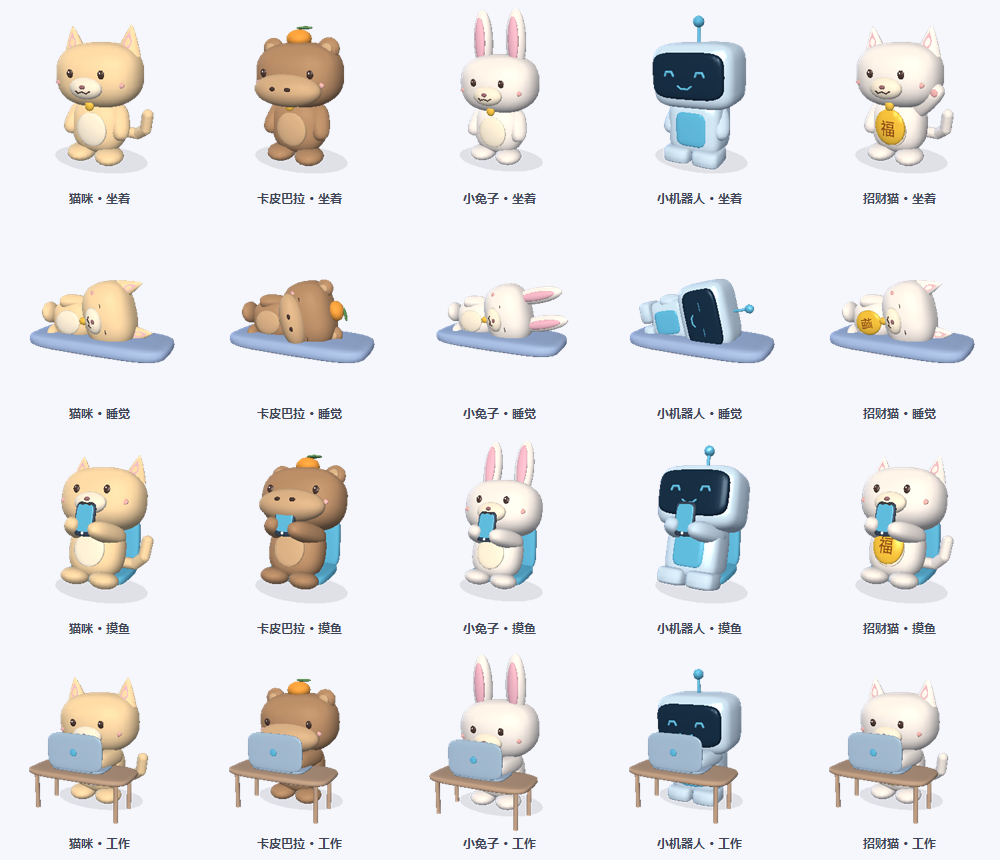
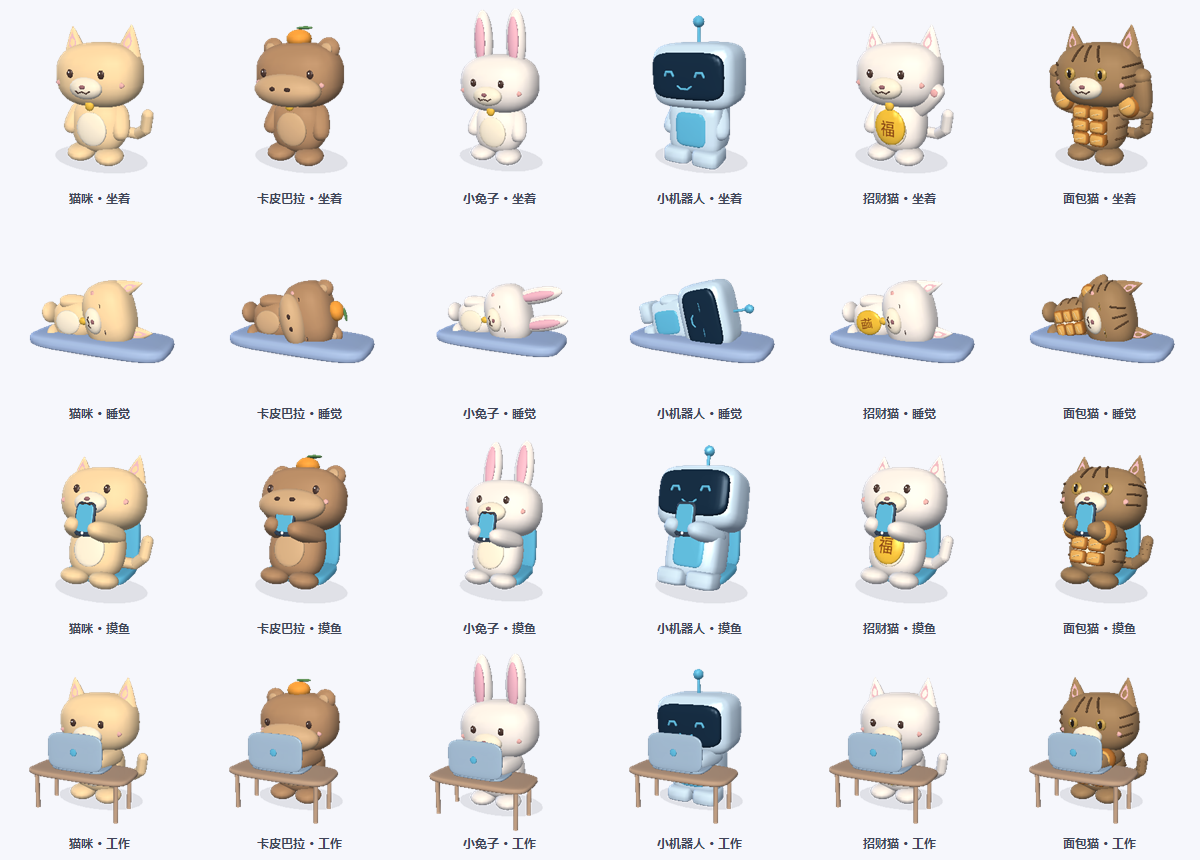
Add a tabby bread cat with flexed arms, toasted bread muscles and all pet interactions

diff --git a/src/PetModel3D.cs b/src/PetModel3D.cs
@@ -189,7 +189,7 @@ public static class PetModel3D
         scene.World.Children.Add(new W3.AmbientLight(WM.Color.FromRgb(104, 109, 120)));
         scene.World.Children.Add(new W3.DirectionalLight(WM.Color.FromRgb(180, 173, 165), new W3.Vector3D(-.45, -.8, -1.2)));
         scene.World.Children.Add(new W3.DirectionalLight(WM.Color.FromRgb(65, 79, 104), new W3.Vector3D(.8, -.1, .4)));
-        Color fur = kind == 0 ? Color.FromArgb(255, 219, 165) : kind == 1 ? Color.FromArgb(188, 143, 103) : kind == 3 ? Color.FromArgb(210, 232, 244) : Color.FromArgb(255, 245, 232);
+        Color fur = kind == 0 ? Color.FromArgb(255, 219, 165) : kind == 1 ? Color.FromArgb(188, 143, 103) : kind == 3 ? Color.FromArgb(210, 232, 244) : kind == 5 ? Color.FromArgb(171, 133, 91) : Color.FromArgb(255, 245, 232);
         Color accent = theme == 0 ? Color.FromArgb(96, 188, 220) : Color.FromArgb(225, 146, 184), ink = Color.FromArgb(77, 56, 49), pale = kind == 1 ? Color.FromArgb(218, 177, 132) : Color.FromArgb(255, 241, 213);
         if (pose != 4 && pose != 5) Ball(scene.World, 0, -.03, 0, 1.25, .012, .85, Color.FromArgb(28, 55, 55, 75));
         W3.Model3DGroup character = new W3.Model3DGroup(); scene.World.Children.Add(character);
@@ -210,6 +210,28 @@ public static class PetModel3D
         character.Transform = poseTransform;
         Ball(character, 0, .88, 0, .7, .71, .54, fur, kind == 3, kind == 3, kind != 3);
         Ball(character, 0, .87, .49, .4, .43, .075, kind == 3 ? accent : pale, kind == 3, kind == 3);
+        if (kind == 5)
+        {
+            // 六块面包是独立的圆润网格，烤色外壳、柔软内芯和浅色割纹都有真实厚度。
+            for (int row = 0; row < 3; row++) for (int sign = -1; sign <= 1; sign += 2)
+            {
+                double x = sign * .215, y = 1.3 - row * .32;
+                Ball(character, x, y, .53, .205, .155, .145, Color.FromArgb(190, 116, 48), true);
+                Ball(character, x, y + .015, .644, .173, .12, .052, Color.FromArgb(237, 177, 91), true);
+                Curve(character, new[] { new W3.Point3D(x - .095, y - .017, .693), new W3.Point3D(x, y + .017, .703), new W3.Point3D(x + .095, y + .04, .693) }, .012, Color.FromArgb(255, 219, 153));
+            }
+            for (int sign = -1; sign <= 1; sign += 2) for (int row = 0; row < 3; row++)
+            {
+                W3.Point3D[] points = new W3.Point3D[5];
+                for (int i = 0; i < points.Length; i++)
+                {
+                    double y = .66 + row * .29, z = -.36 + i * .18;
+                    double x = .7 * Math.Pow(Math.Max(0, 1 - Math.Pow(Math.Abs(z / .54), 2 / .78) - Math.Pow(Math.Abs((y - .88) / .71), 2 / .78)), .78 / 2) + .012;
+                    points[i] = new W3.Point3D(sign * x, y, z);
+                }
+                Curve(character, points, .027, Color.FromArgb(111, 80, 51));
+            }
+        }
         W3.Model3DGroup leftLeg = Joint(character, new W3.Vector3D(1, 0, 0), new W3.Point3D(-.38, .65, 0), out scene.LeftLeg);
         W3.Model3DGroup rightLeg = Joint(character, new W3.Vector3D(1, 0, 0), new W3.Point3D(.38, .65, 0), out scene.RightLeg);
         Ball(leftLeg, -.38, .18, .28, .35, .21, .4, fur, kind == 3); Ball(rightLeg, .38, .18, .28, .35, .21, .4, fur, kind == 3);
@@ -233,6 +255,44 @@ public static class PetModel3D
             Ball(head, -.16, 2.14, .97, .07, .045, .035, ink); Ball(head, .16, 2.14, .97, .07, .045, .035, ink);
         }
         else { Ear(head, -.6, fur); Ear(head, .6, fur); }
+        if (kind == 5)
+        {
+            Color stripe = Color.FromArgb(94, 68, 45);
+            // 沿头部曲面铺设虎斑纹，侧面与背面仍是模型表面而不是一张正面贴图。
+            for (int mark = -1; mark <= 1; mark++)
+            {
+                W3.Point3D[] points = new W3.Point3D[7];
+                for (int i = 0; i < points.Length; i++)
+                {
+                    double x = mark * (.18 + i * .018), y = 2.98 - i * .048;
+                    double z = .73 * Math.Pow(Math.Max(0, 1 - Math.Pow(Math.Abs(x / .94), 2 / .78) - Math.Pow(Math.Abs((y - 2.32) / .73), 2 / .78)), .78 / 2) + .012;
+                    points[i] = new W3.Point3D(x, y, z);
+                }
+                Curve(head, points, .026, stripe);
+            }
+            for (int sign = -1; sign <= 1; sign += 2) for (int row = 0; row < 3; row++)
+            {
+                W3.Point3D[] points = new W3.Point3D[5];
+                for (int i = 0; i < points.Length; i++)
+                {
+                    double x = sign * (.91 - i * .045), y = 2.61 - row * .22 - i * .01;
+                    double z = .73 * Math.Pow(Math.Max(0, 1 - Math.Pow(Math.Abs(x / .94), 2 / .78) - Math.Pow(Math.Abs((y - 2.32) / .73), 2 / .78)), .78 / 2) + .012;
+                    points[i] = new W3.Point3D(x, y, z);
+                }
+                Curve(head, points, .023, stripe);
+            }
+            for (int row = 0; row < 3; row++)
+            {
+                W3.Point3D[] points = new W3.Point3D[7];
+                for (int i = 0; i < points.Length; i++)
+                {
+                    double x = -.72 + i * .24, y = 2.42 + row * .15 + .1 * (1 - Math.Abs(x));
+                    double z = -.73 * Math.Pow(Math.Max(0, 1 - Math.Pow(Math.Abs(x / .94), 2 / .78) - Math.Pow(Math.Abs((y - 2.32) / .73), 2 / .78)), .78 / 2) - .012;
+                    points[i] = new W3.Point3D(x, y, z);
+                }
+                Curve(head, points, .028, stripe);
+            }
+        }
         W3.Model3DGroup eyesLeft = new W3.Model3DGroup(), eyesRight = new W3.Model3DGroup();
         scene.EyeLeft = new W3.ScaleTransform3D(1, 1, 1, -.34, 2.4, .75); scene.EyeRight = new W3.ScaleTransform3D(1, 1, 1, .34, 2.4, .75);
         eyesLeft.Transform = scene.EyeLeft; eyesRight.Transform = scene.EyeRight; head.Children.Add(eyesLeft); head.Children.Add(eyesRight);
@@ -245,7 +305,13 @@ public static class PetModel3D
             {
                 double x = sign * (kind == 1 ? .51 : .34), z = kind == 1 ? .673 : .72;
                 if (kind != 1) z = .716;
-                Ball(eyes, x, 2.42, z, surprised ? .095 : .072, surprised ? .14 : .095, .025, ink, false, true); Ball(eyes, x - .014, 2.45, z + .024, .016, .019, .008, Color.White);
+                if (kind == 5)
+                {
+                    Ball(eyes, x, 2.42, z, .13, surprised ? .17 : .14, .035, Color.FromArgb(190, 151, 73), false, true);
+                    Ball(eyes, x, 2.42, z + .032, surprised ? .07 : .045, surprised ? .12 : .095, .018, Color.FromArgb(41, 33, 27), false, true);
+                    Ball(eyes, x - .028, 2.47, z + .05, .022, .024, .008, Color.White);
+                }
+                else { Ball(eyes, x, 2.42, z, surprised ? .095 : .072, surprised ? .14 : .095, .025, ink, false, true); Ball(eyes, x - .014, 2.45, z + .024, .016, .019, .008, Color.White); }
                 Ball(head, sign * .63, 2.19, .56, .14, .07, .025, Color.FromArgb(244, 183, 174));
             }
         }
@@ -264,21 +330,35 @@ public static class PetModel3D
             Ball(head, 0, 2.12, .7, .36, .24, .17, pale); Ball(head, 0, 2.17, .87, .065, .045, .035, Color.FromArgb(165, 111, 115));
             Curve(head, new[] { new W3.Point3D(-.15, 2.08, .855), new W3.Point3D(-.09, 2.04, .88), new W3.Point3D(0, 2.075, .891), new W3.Point3D(.09, 2.04, .88), new W3.Point3D(.15, 2.08, .855) }, .014, ink);
         }
-        W3.Model3DGroup left = Joint(character, pose == 5 ? new W3.Vector3D(0, 0, 1) : new W3.Vector3D(1, 0, 0), new W3.Point3D(-.55, 1.45, 0), out scene.LeftArm);
-        W3.Model3DGroup right = Joint(character, pose == 5 || kind == 4 && pose == 0 ? new W3.Vector3D(0, 0, 1) : new W3.Vector3D(1, 0, 0), new W3.Point3D(.55, 1.45, 0), out scene.RightArm);
+        W3.Model3DGroup left = Joint(character, pose == 5 || kind == 5 && pose == 0 ? new W3.Vector3D(0, 0, 1) : new W3.Vector3D(1, 0, 0), new W3.Point3D(-.55, 1.45, 0), out scene.LeftArm);
+        W3.Model3DGroup right = Joint(character, pose == 5 || (kind == 4 || kind == 5) && pose == 0 ? new W3.Vector3D(0, 0, 1) : new W3.Vector3D(1, 0, 0), new W3.Point3D(.55, 1.45, 0), out scene.RightArm);
         for (int sign = -1; sign <= 1; sign += 2)
         {
             W3.Model3DGroup arm = sign < 0 ? left : right;
             W3.Point3D shoulder = new W3.Point3D(sign * .52, 1.27, .03);
-            W3.Point3D hand = pose == 5 ? new W3.Point3D(sign * .85, .91, .23) : pose == 4 ? new W3.Point3D(sign * .89, 2.58, .7) : pose == 3 ? new W3.Point3D(sign * .42, 1.23, 1.06) : pose == 2 ? new W3.Point3D(sign * .29, 1.34, .92) : kind == 4 && sign > 0 ? new W3.Point3D(.92, 1.95, .23) : new W3.Point3D(sign * .65, .81, .28);
-            PlushArm(arm, shoulder, hand, fur);
+            W3.Point3D hand = pose == 5 ? new W3.Point3D(sign * .85, .91, .23) : pose == 4 ? new W3.Point3D(sign * .89, 2.58, .7) : pose == 3 ? new W3.Point3D(sign * .42, 1.23, 1.06) : pose == 2 ? new W3.Point3D(sign * .29, 1.34, .92) : kind == 5 ? new W3.Point3D(sign * 1.12, 2.16, .15) : kind == 4 && sign > 0 ? new W3.Point3D(.92, 1.95, .23) : new W3.Point3D(sign * .65, .81, .28);
+            if (kind == 5 && pose == 0)
+            {
+                W3.Point3D elbow = new W3.Point3D(sign * 1.12, 1.37, .02);
+                PlushArm(arm, shoulder, elbow, fur); PlushArm(arm, elbow, hand, fur);
+                Ball(arm, hand.X, hand.Y, hand.Z, .23, .2, .23, fur);
+            }
+            else PlushArm(arm, shoulder, hand, fur);
+            if (kind == 5)
+            {
+                double x = pose == 0 ? sign * .85 : (shoulder.X + hand.X) / 2, y = pose == 0 ? 1.47 : (shoulder.Y + hand.Y) / 2, z = pose == 0 ? .18 : (shoulder.Z + hand.Z) / 2 + .12;
+                Ball(arm, x, y, z, .27, .29, .25, Color.FromArgb(190, 116, 48));
+                Ball(arm, x, y + .025, z + .19, .21, .225, .09, Color.FromArgb(237, 177, 91));
+                Curve(arm, new[] { new W3.Point3D(x - .11, y - .035, z + .27), new W3.Point3D(x, y + .025, z + .286), new W3.Point3D(x + .1, y + .075, z + .27) }, .017, Color.FromArgb(255, 219, 153));
+            }
             if (pose == 4) Ball(arm, hand.X, hand.Y, hand.Z, .26, .2, .2, fur, kind == 3);
             if (kind == 4 && sign > 0 && pose == 0) Ball(arm, hand.X, hand.Y, hand.Z + .2, .09, .09, .02, Color.FromArgb(245, 180, 175));
         }
         W3.Model3DGroup tail = Joint(character, new W3.Vector3D(0, 1, 0), new W3.Point3D(.4, .7, -.35), out scene.Tail);
-        if (kind == 0 || kind == 4) Curve(tail, new[] { new W3.Point3D(.4, .65, -.35), new W3.Point3D(.9, .65, -.4), new W3.Point3D(1.18, .85, -.3), new W3.Point3D(1.25, 1.23, -.25) }, .14, fur);
+        if (kind == 0 || kind == 4 || kind == 5) Curve(tail, new[] { new W3.Point3D(.4, .65, -.35), new W3.Point3D(.9, .65, -.4), new W3.Point3D(1.18, .85, -.3), new W3.Point3D(1.25, 1.23, -.25) }, .14, fur);
+        if (kind == 5) for (int ring = 0; ring < 3; ring++) Ball(tail, 1.19 + ring * .025, .91 + ring * .12, -.29 + ring * .015, .143, .037, .143, Color.FromArgb(94, 68, 45));
         if (kind == 2) Ball(tail, 0, .6, -.54, .27, .27, .24, fur);
-        if (kind != 3)
+        if (kind != 3 && kind != 5)
         {
             Color collar = kind == 4 ? Color.FromArgb(214, 68, 71) : accent;
             Curve(character, new[] { new W3.Point3D(-.43, 1.64, .28), new W3.Point3D(-.25, 1.57, .48), new W3.Point3D(0, 1.54, .53), new W3.Point3D(.25, 1.57, .48), new W3.Point3D(.43, 1.64, .28) }, .045, collar);

diff --git a/src/WorkEncourager.cs b/src/WorkEncourager.cs
@@ -947,11 +947,24 @@ public static class Program
         }
         if (args.Length > 0 && args[0] == "--preview")
         {
-            using (Bitmap expressions = new Bitmap(1000, 430))
+            using (Bitmap bread = new Bitmap(1000, 524))
+            using (Graphics g = Graphics.FromImage(bread))
+            {
+                g.Clear(Color.FromArgb(246, 247, 252));
+                string[] labels = { "面包猫 · 正面", "面包猫 · 举臂", "面包猫 · 侧面", "面包猫 · 背面", "睡觉", "摸鱼", "工作", "被拎起" };
+                double[] angles = { 0, 25, 90, 180 };
+                for (int i = 0; i < labels.Length; i++)
+                {
+                    using (Bitmap image = PetModel3D.Render(5, 0, 18, i < 4 || i == 7 ? 0 : i - 3, i < 4 ? angles[i] : 25, 12, false, false, i == 7, 250)) g.DrawImage(image, i % 4 * 250, i / 4 * 262);
+                    Widget.Write(g, labels[i], 10, Color.FromArgb(64, 69, 88), new RectangleF(i % 4 * 250, i / 4 * 262 + 237, 250, 25), FontStyle.Regular, StringAlignment.Center);
+                }
+                bread.Save(Path.Combine(AppDomain.CurrentDomain.BaseDirectory, "bread-cat-preview.png"));
+            }
+            using (Bitmap expressions = new Bitmap(PetArt.Names.Length * 200, 430))
             using (Graphics g = Graphics.FromImage(expressions))
             {
                 g.Clear(Color.FromArgb(246, 247, 252));
-                for (int row = 0; row < 2; row++) for (int character = 0; character < 5; character++)
+                for (int row = 0; row < 2; row++) for (int character = 0; character < PetArt.Names.Length; character++)
                 {
                     using (Bitmap image = PetModel3D.Render(character, 0, 18, 0, 25, 12, false, false, row == 1)) g.DrawImage(image, character * 200, row * 215);
                     Widget.Write(g, PetArt.Names[character] + (row == 0 ? " · 平时" : " · 拖动惊讶"), 9, Color.FromArgb(64, 69, 88), new RectangleF(character * 200, row * 215 + 190, 200, 25), FontStyle.Regular, StringAlignment.Center);
@@ -964,7 +977,7 @@ public static class Program
                 using (Bitmap image = new Bitmap(preview.Width, preview.Height)) { preview.DrawToBitmap(image, preview.ClientRectangle); ApplyWindowRegion(preview, image); image.Save(Path.Combine(AppDomain.CurrentDomain.BaseDirectory, "privacy-preview.png")); }
                 preview.Hide();
             }
-            using (Bitmap docks = new Bitmap(1000, 1075))
+            using (Bitmap docks = new Bitmap(PetArt.Names.Length * 200, 1075))
             using (Graphics g = Graphics.FromImage(docks))
             {
                 g.Clear(Color.FromArgb(246, 247, 252));
@@ -1509,7 +1522,7 @@ public static class Tests
                 check(desktop.DockEdge == 2 && desktop.Right == Screen.FromRectangle(desktop.Bounds).WorkingArea.Right, "Changing pet size retains docking at the screen edge");
                 desktop.Hide();
             }
-            for (int character = 0; character < 5; character++)
+            for (int character = 0; character < PetArt.Names.Length; character++)
             using (Bitmap normal = PetModel3D.Render(character, 0, 18, 0, 25, 12, false, false))
             using (Bitmap surprised = PetModel3D.Render(character, 0, 18, 0, 25, 12, false, false, true))
             using (Bitmap restored = PetModel3D.Render(character, 0, 18, 0, 25, 12, false, false))
@@ -1548,7 +1561,7 @@ public static class Tests
             for (int tick = 1; tick <= 12; tick++) frequent.Update(true, pickupTime.AddMilliseconds(tick * 10), 0);
             for (int tick = 1; tick <= 3; tick++) sparse.Update(true, pickupTime.AddMilliseconds(tick * 40), 0);
             check(Math.Abs(frequent.Amount - sparse.Amount) < .001, "Animation transition is independent of mouse message frequency");
-            for (int character = 0; character < 5; character++)
+            for (int character = 0; character < PetArt.Names.Length; character++)
             using (Bitmap first = PetModel3D.Render(character, 0, 0, 0, 25, 12, false, false, true))
             using (Bitmap next = PetModel3D.Render(character, 0, 6, 0, 25, 12, false, false, true))
             {
@@ -1562,6 +1575,32 @@ public static class Tests
                 bool same = true;
                 for (int y = 0; y < 190; y++) for (int x = 0; x < 200; x++) if (sitting.GetPixel(x, y) != working.GetPixel(x, y)) same = false;
                 check(same, "Temporary picked-up pose has no floating work desk and does not depend on saved activity");
+            }
+            check(PetArt.Names.Length == 6 && PetArt.Names[4] == "招财猫" && PetArt.Names[5] == "面包猫", "Bread cat appends a character without changing existing saved character IDs");
+            Settings breadConfig = new Settings { MonthlySalary = 8800, PetCharacter = 5, PetEnabled = false, DailySummaryEnabled = false, PrivacyMode = true };
+            Storage.Save(breadConfig);
+            using (SettingsForm dialog = new SettingsForm(breadConfig))
+            {
+                dialog.Opacity = 0; dialog.Show(); Application.DoEvents();
+                ComboBox choices = (ComboBox)dialog.Controls["PetCharacter"];
+                check(choices.Items.Count == 6 && choices.SelectedIndex == 5 && choices.Text == "面包猫", "Bread cat appears and remains selected in the real settings form");
+                ((Button)dialog.AcceptButton).PerformClick();
+                check(Storage.Load().PetCharacter == 5 && Storage.Load().PrivacyMode && Storage.Load().MonthlySalary == 8800, "Saving bread cat preserves salary and privacy preferences");
+            }
+            using (Widget owner = new Widget(breadConfig))
+            {
+                owner.Opacity = 0; owner.Show(); Application.DoEvents(); ToolStripMenuItem characters = null;
+                foreach (ToolStripItem item in owner.ContextMenuStrip.Items) if (item.Text == "切换桌宠形象") characters = item as ToolStripMenuItem;
+                check(characters != null && characters.DropDownItems.Count == 6 && characters.DropDownItems[5].Text == "面包猫", "Bread cat is available from the existing character menu");
+                characters.DropDownItems[5].PerformClick(); Application.DoEvents();
+                check(Storage.Load().PetCharacter == 5 && Storage.Load().PetEnabled, "Selecting bread cat from the menu enables the new pet through the original flow"); owner.Hide();
+            }
+            using (Bitmap front = PetModel3D.Render(5, 0, 18, 0, 0, 12, false, false))
+            using (Bitmap back = PetModel3D.Render(5, 0, 18, 0, 180, 12, false, false))
+            {
+                int difference = 0;
+                for (int y = 0; y < 190; y++) for (int x = 0; x < 200; x++) if (front.GetPixel(x, y) != back.GetPixel(x, y)) difference++;
+                check(difference > 1000, "Bread cat rotates as a real model with a distinct front and back");
             }
             using (ReminderPopup popup = new ReminderPopup("喝水时间到了，给自己补充一点水分。", 0))
             {

diff --git a/src/DesktopPet.cs b/src/DesktopPet.cs
@@ -7,7 +7,7 @@ using System.Windows.Forms;
 
 public static class PetArt
 {
-    public static readonly string[] Names = { "猫咪", "卡皮巴拉", "小兔子", "小机器人", "招财猫" };
+    public static readonly string[] Names = { "猫咪", "卡皮巴拉", "小兔子", "小机器人", "招财猫", "面包猫" };
     public static Bitmap Render(int kind, int theme, int frame, bool walking, bool speaking)
     {
         return PetModel3D.Render(kind, theme, frame, 0, 25, 12, walking, speaking);

diff --git a/README.md b/README.md
@@ -1,8 +1,12 @@
-# 上班鼓励器
+# 上班鼓励器
 
 Windows 三维桌宠与可配置详情面板，显示当天上班进度、剩余有效工时和按月薪折算的收入，支持喝水与如厕提醒。
 
-![五种可旋转三维桌宠](assets/pets.png)
+![六种可旋转三维桌宠](assets/pets.png)
+
+新增的面包猫采用虎斑公仔造型，带六块烤面包腹肌和面包上臂，坐着时双臂举起。右键桌宠 → 切换桌宠形象 → 面包猫，或在设置中选择；支持旋转、四种状态、贴墙、缩放及被拎起动作。
+
+![面包猫的多角度和状态预览](assets/bread-cat.png)
 
 ![坐着、睡觉、摸鱼、工作四种状态](assets/poses.png)
 
@@ -16,13 +20,13 @@ Windows 三维桌宠与可配置详情面板，显示当天上班进度、剩余
 
 ## 功能
 
-- 猫咪、卡皮巴拉、小兔子、小机器人、招财猫五种真实三维桌宠，采用圆润公仔比例、网格曲面和灯光材质；招财猫会举爪招手。
+- 猫咪、卡皮巴拉、小兔子、小机器人、招财猫、面包猫六种真实三维桌宠，采用圆润公仔比例、网格曲面和灯光材质；招财猫会举爪招手。
 - 左键拖动移动，右键拖动旋转视角，可查看模型侧面和背面，视角自动保存。
 - 拖到屏幕可用区域四边附近松手，桌宠会贴墙探头，只露出半个头和爪子；鼠标移上去完整探出，移开缩回，拖离边缘恢复原来的姿态。
 - 桌宠大小可在设置中连续调节 50%–150%，默认 100%；按所在显示器缩放调整，副屏断开或工作区变化后自动回到可见位置。
 - 详情顶部的小眼睛、右键菜单和 Ctrl+Alt+P 可切换隐私模式，统一隐藏收入与下班总结金额，记住状态；设置页的月薪可主动查看。
 - 可选择登录 Windows 后自动启动，默认关闭；启用时使用当前程序路径，不随分享配置传播。
-- 左键实际拖动角色时进入被拎起的临时姿态：身体轻摆、反向歪头、交替晃腿和小幅挣扎，眼睛与嘴巴随动作变化；松手过渡回原状态。五种桌宠均支持，轻点和右键旋转不触发。
+- 左键实际拖动角色时进入被拎起的临时姿态：身体轻摆、反向歪头、交替晃腿和小幅挣扎，眼睛与嘴巴随动作变化；松手过渡回原状态。六种桌宠均支持，轻点和右键旋转不触发。
 - 坐着、睡觉、摸鱼、工作四种状态，默认每10–20秒随机切换，也可在右键菜单手动指定。姿态只影响动画，不影响工资或提醒判定。
 - 点击桌宠展开或收起详情。五个详情组件可勾选显隐、拖动排序并记住配置，内容较多时可滚动查看。
 - 鼠标停留在桌宠上约半秒，显示实时信息气泡，移开自动收起；点击展开的详情保持显示。悬浮内容可独立勾选，不改变详情组件配置。
@@ -53,7 +57,7 @@ Windows 三维桌宠与可配置详情面板，显示当天上班进度、剩余
 
 拖动桌宠到可用屏幕边缘约 24 像素以内松手即可贴墙，四边都支持，角落按最近的一条边吸附。贴墙使用正面抬爪姿态，暂停散步和随机状态切换；鼠标悬停时完整探出，移开后缩回，拖离边缘恢复原来选择的状态和视角。点击详情、悬浮信息与提醒仍然可用；贴墙方向和位置会保存。角色只在自己的透明窗口内裁切，不移到屏幕外，也不会跨到相邻显示器或藏到任务栏后。
 
-![五种桌宠的四边贴墙与悬停展开效果](assets/docking.png)
+![六种桌宠的四边贴墙与悬停展开效果](assets/docking.png)
 
 在设置中分别填写喝水、如厕间隔（分钟），例如 30 和 60，各自到期提醒，同时到期合并成一个弹窗。旧配置的间隔默认各 30 分钟，原先的双项交替模式改为分别计时。
 
@@ -65,7 +69,7 @@ Windows 三维桌宠与可配置详情面板，显示当天上班进度、剩余
 
 ![隐私模式与详情顶部的小眼睛](assets/privacy.png)
 
-![五种桌宠的被拎起动作与松手恢复](assets/drag-motion.gif)
+![六种桌宠的被拎起动作与松手恢复](assets/drag-motion.gif)
 
 拖动动画按经过时间过渡，鼠标消息频率不影响切换速度；实际拖动时暂时隐藏工作桌、手机和睡垫，松手后恢复原来选择的状态。动画只改变角色绘制，不延迟窗口跟随鼠标，也不修改收入、提醒或隐私设置。拖动被打断时会自动退出被拎起状态。
 
